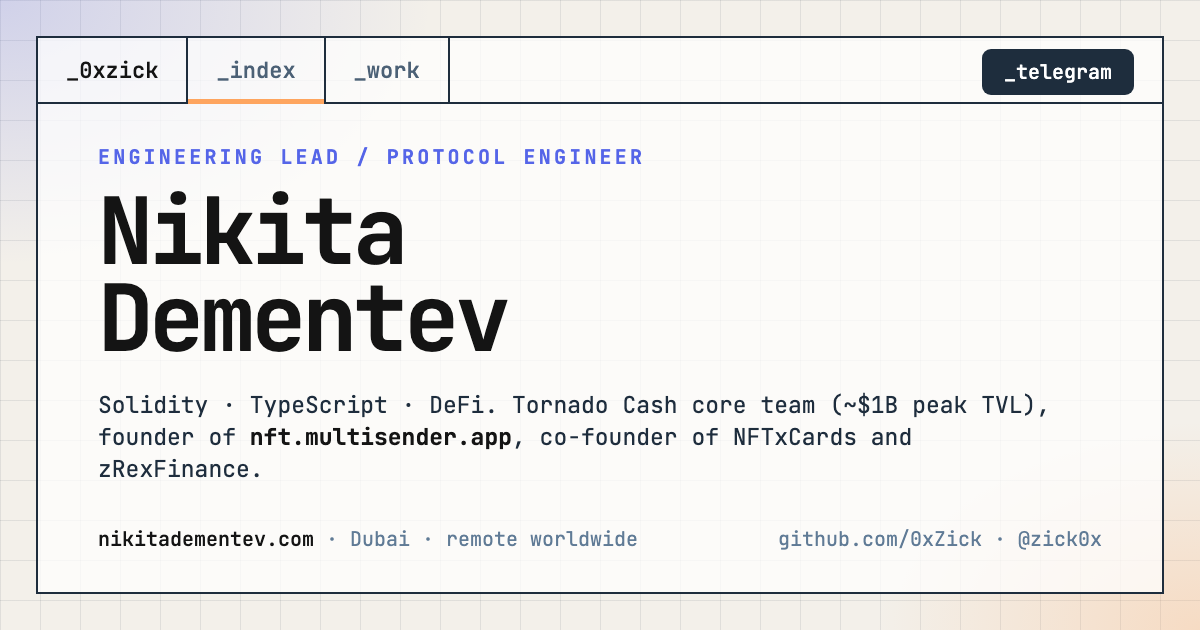
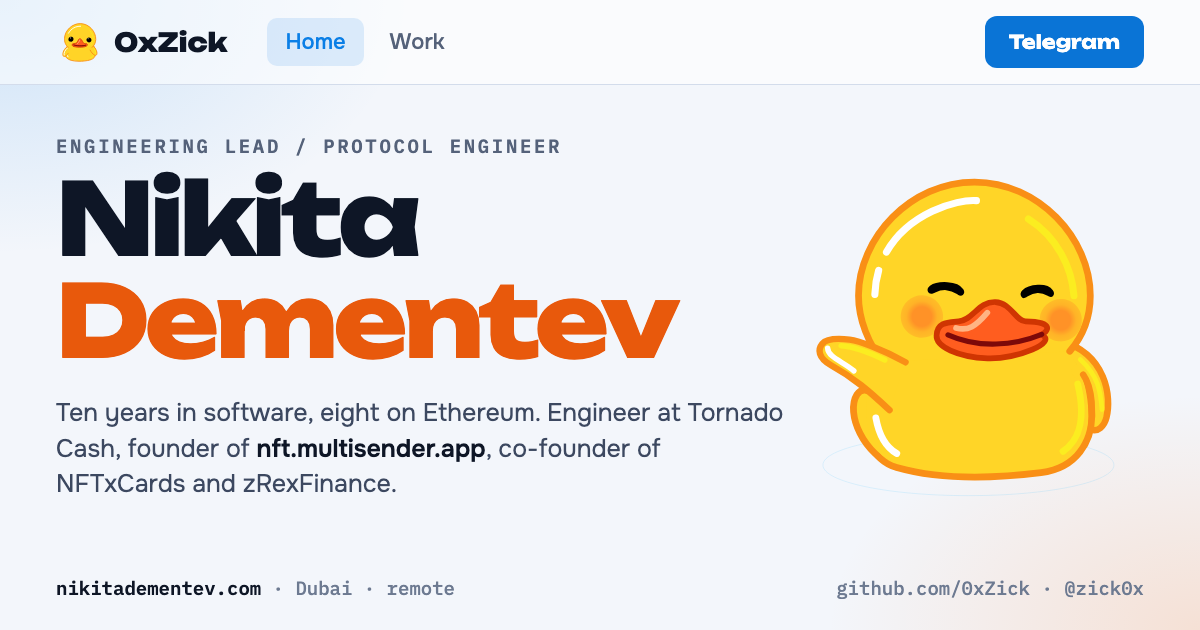
redisign fix

diff --git a/og-source.html b/og-source.html
@@ -1,35 +1,47 @@
 <!doctype html><html><head><meta charset="utf-8">
-<link href="https://fonts.googleapis.com/css2?family=JetBrains+Mono:wght@400;500;700&display=swap" rel="stylesheet">
+<!-- Render: serve site/ over http (lottie fetches public/ducks/hero.json), see README. -->
+<link href="https://fonts.googleapis.com/css2?family=Unbounded:wght@700;800&family=Onest:wght@400;500;600&family=IBM+Plex+Mono:wght@500;600&display=swap" rel="stylesheet">
+<script src="https://cdnjs.cloudflare.com/ajax/libs/bodymovin/5.12.2/lottie.min.js"></script>
 <style>
 html,body{margin:0}
-body{width:1200px;height:630px;overflow:hidden;font-family:'JetBrains Mono',Menlo,monospace;color:#141414;
- background-color:#f3f0ea;
- background-image:radial-gradient(ellipse 60% 70% at 0% 0%, rgba(85,101,232,.22), transparent 60%),
-  radial-gradient(ellipse 45% 55% at 100% 100%, rgba(254,165,95,.28), transparent 60%),
-  linear-gradient(rgba(30,45,61,.09) 1px, transparent 1px),linear-gradient(90deg, rgba(30,45,61,.09) 1px, transparent 1px);
- background-size:auto,auto,40px 40px,40px 40px;position:relative}
-.frame{position:absolute;inset:36px;border:2px solid #1e2d3d;background:rgba(255,255,255,.72)}
-.top{position:absolute;top:0;left:0;right:0;height:64px;border-bottom:2px solid #1e2d3d;display:flex;align-items:stretch;font-size:22px;font-weight:500;color:#4c6176}
-.top span{display:flex;align-items:center;padding:0 28px;border-right:2px solid #1e2d3d}
-.top .logo{color:#141414}
-.top .act{position:relative}
-.top .act:after{content:'';position:absolute;left:0;right:0;bottom:-2px;height:5px;background:#fea55f}
-.body{position:absolute;top:64px;left:0;right:0;bottom:0;padding:42px 60px}
-.k{font-size:20px;font-weight:700;letter-spacing:.16em;text-transform:uppercase;color:#5565e8;margin:0 0 18px}
-h1{margin:0;font-size:92px;line-height:.95;letter-spacing:-.045em;font-weight:700}
-.lede{margin:26px 0 0;font-size:23px;line-height:1.4;max-width:980px;color:#1e2d3d}
-.lede b{color:#141414}
-.foot{position:absolute;left:60px;right:60px;bottom:40px;display:flex;justify-content:space-between;font-size:20px;color:#607b96}
-.foot b{color:#141414;font-weight:500}
-.pill{position:absolute;right:28px;top:11px;background:#1e2d3d;color:#fff;font-size:20px;padding:10px 22px;border-radius:9px}
+body{width:1200px;height:630px;overflow:hidden;font-family:'Onest',system-ui,sans-serif;color:#0e1626;
+ background:#f3f6fb;
+ background-image:radial-gradient(ellipse 55% 65% at 0% 0%, rgba(11,127,230,.16), transparent 62%),
+  radial-gradient(ellipse 50% 60% at 100% 100%, rgba(255,138,61,.20), transparent 62%);
+ position:relative}
+.top{position:absolute;top:0;left:0;right:0;height:84px;display:flex;align-items:center;padding:0 56px;border-bottom:1px solid #d3dceb;background:rgba(255,255,255,.55)}
+.logo{display:flex;align-items:center;gap:12px;font-family:'Unbounded',sans-serif;font-weight:800;font-size:26px}
+.logo #ld{width:46px;height:46px}
+.nav{display:flex;gap:8px;margin-left:40px;font-size:22px;font-weight:500;color:#55627a}
+.nav span{padding:10px 18px;border-radius:10px}
+.nav .act{background:rgba(11,127,230,.12);color:#0b7fe6}
+.tg{margin-left:auto;background:#0a74d6;color:#fff;font-family:'Unbounded',sans-serif;font-weight:700;font-size:19px;padding:14px 24px;border-radius:12px}
+.body{position:absolute;top:84px;left:56px;right:56px;bottom:0}
+.k{margin:50px 0 10px;font-family:'IBM Plex Mono',monospace;font-weight:600;font-size:19px;letter-spacing:.14em;text-transform:uppercase;color:#55627a}
+h1{margin:0;font-family:'Unbounded',sans-serif;font-weight:800;font-size:100px;line-height:1.02;letter-spacing:-.04em}
+h1 em{font-style:normal;color:#e8590c}
+.lede{margin:24px 0 0;font-size:25px;line-height:1.42;max-width:740px;color:#3c4860}
+.lede b{color:#0e1626;font-weight:600}
+.foot{position:absolute;left:0;right:0;bottom:30px;display:flex;justify-content:space-between;font-family:'IBM Plex Mono',monospace;font-size:19px;color:#6d7a91}
+.foot b{color:#0e1626;font-weight:600}
+#hd{position:absolute;right:20px;top:86px;width:330px;height:330px}
 </style></head><body>
-<div class="frame">
- <div class="top"><span class="logo">_0xzick</span><span class="act">_index</span><span>_work</span><div class="pill">_telegram</div></div>
- <div class="body">
-  <p class="k">engineering lead / protocol engineer</p>
-  <h1>Nikita<br>Dementev</h1>
-  <p class="lede">Solidity · TypeScript · DeFi. Tornado Cash core team (~$1B peak TVL), founder of <b>nft.multisender.app</b>, co-founder of NFTxCards and zRexFinance.</p>
-  <div class="foot"><span><b>nikitadementev.com</b> · Dubai · remote worldwide</span><span>github.com/0xZick · @zick0x</span></div>
- </div>
+<div class="top">
+ <div class="logo"><div id="ld"></div>0xZick</div>
+ <div class="nav"><span class="act">Home</span><span>Work</span></div>
+ <div class="tg">Telegram</div>
 </div>
+<div class="body">
+ <p class="k">engineering lead / protocol engineer</p>
+ <h1>Nikita<br><em>Dementev</em></h1>
+ <p class="lede">Ten years in software, eight on Ethereum. Engineer at Tornado Cash, founder of <b>nft.multisender.app</b>, co-founder of NFTxCards and zRexFinance.</p>
+ <div id="hd"></div>
+ <div class="foot"><span><b>nikitadementev.com</b> · Dubai · remote</span><span>github.com/0xZick · @zick0x</span></div>
+</div>
+<script>
+function duck(id,file,frame){const a=lottie.loadAnimation({container:document.getElementById(id),renderer:'svg',loop:false,autoplay:false,path:file});
+ a.addEventListener('DOMLoaded',()=>a.goToAndStop(frame,true));}
+duck('ld','public/ducks/logo.json',0);
+duck('hd','public/ducks/hero.json',40);
+</script>
 </body></html>

diff --git a/README.md b/README.md
@@ -43,9 +43,13 @@ Sitemap at `/sitemap-index.xml` (via `@astrojs/sitemap`), `robots.txt` in `publi
 Regenerate the share image after editing `og-source.html`:
 
 ```bash
+python3 -m http.server 4890 --bind 127.0.0.1 &   # lottie loads public/ducks/*.json, file:// is blocked
 "/Applications/Google Chrome.app/Contents/MacOS/Google Chrome" --headless=new --disable-gpu --hide-scrollbars \
-  --window-size=1200,630 --virtual-time-budget=4000 --screenshot=public/og.png "file://$PWD/og-source.html"
+  --window-size=1200,630 --virtual-time-budget=6000 --screenshot=public/og.png "http://127.0.0.1:4890/og-source.html"
+kill %1
 ```
+
+Then bump `?v=` on `ogImage` in `src/layouts/Base.astro` and refresh Telegram's cache via @WebpageBot.
 
 Retired /writing texts live in `archive/` (not built). `/bio` and `/writing` redirect.
 
